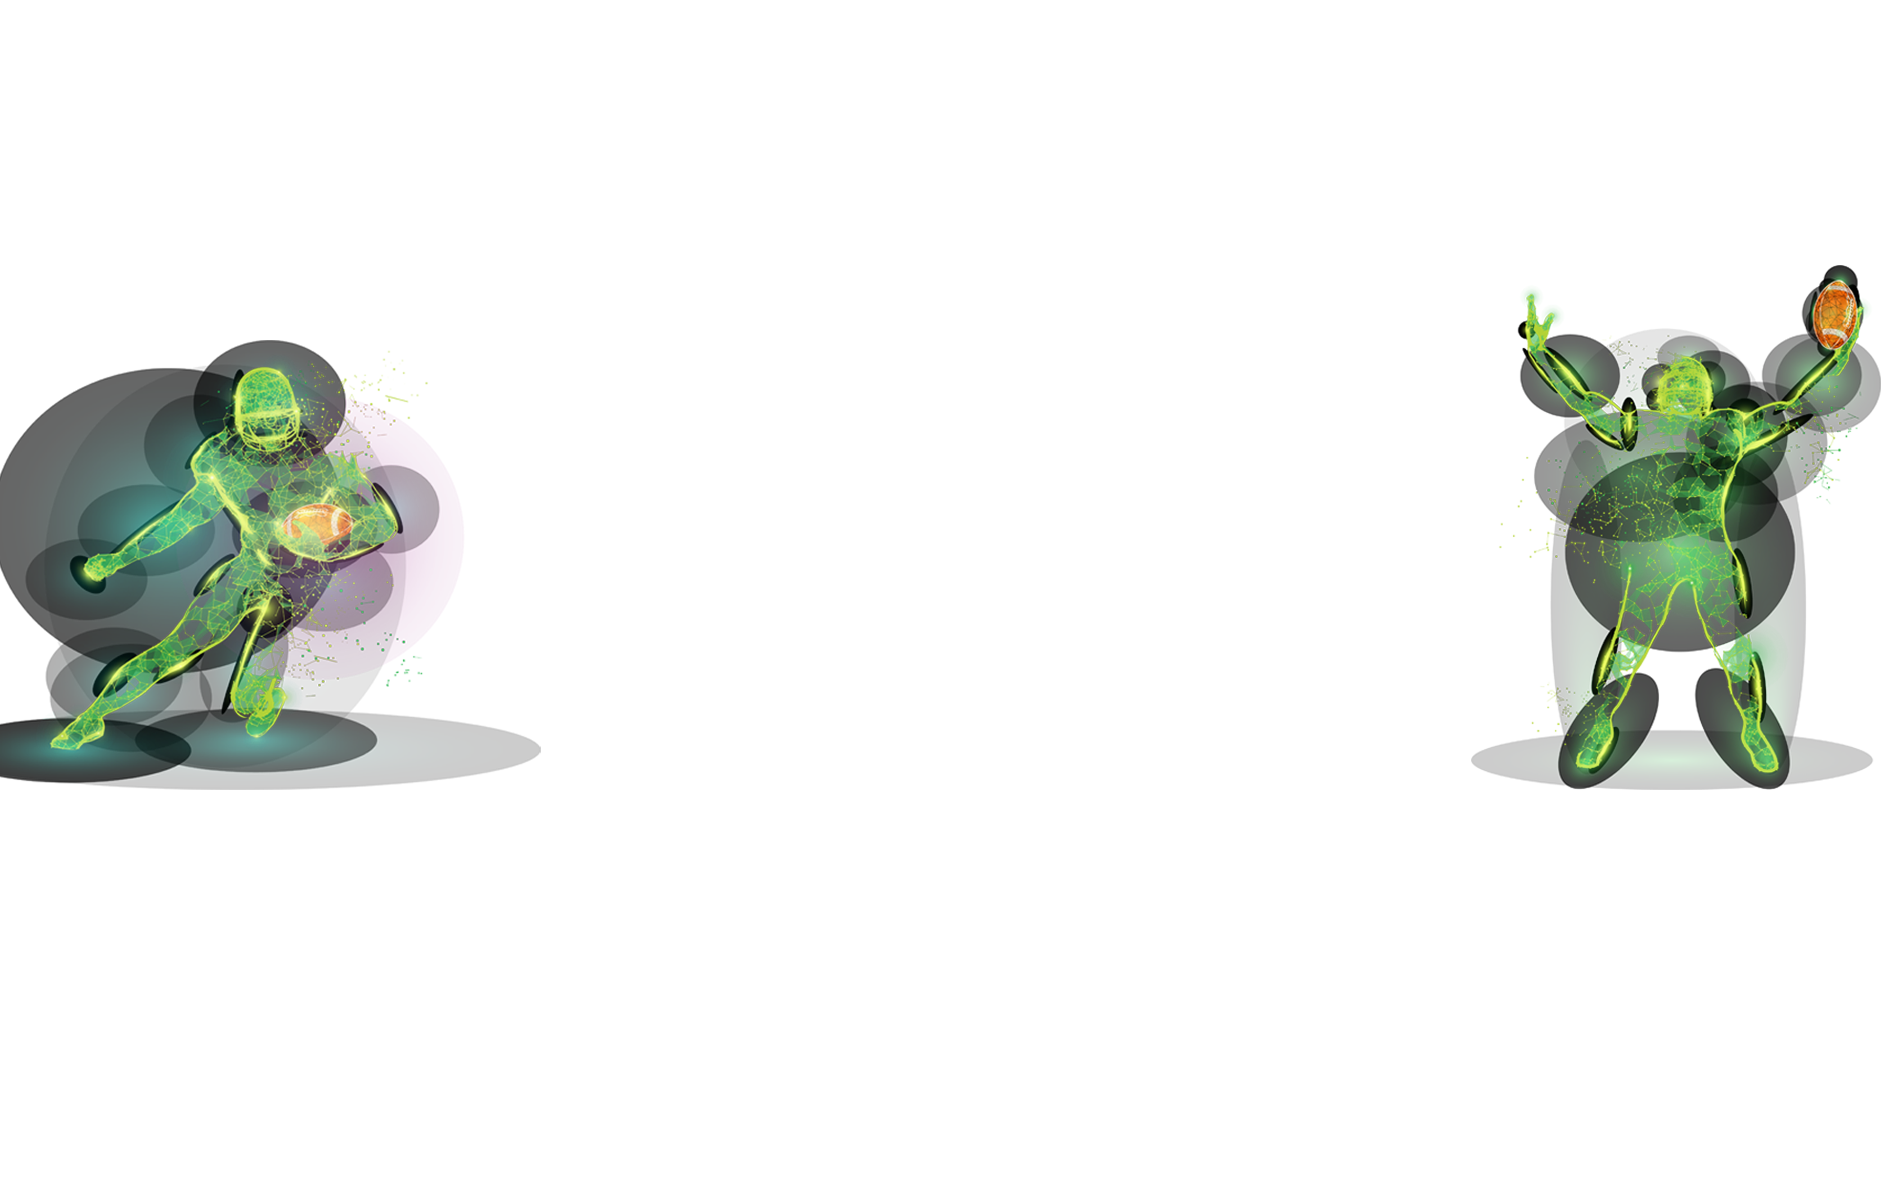
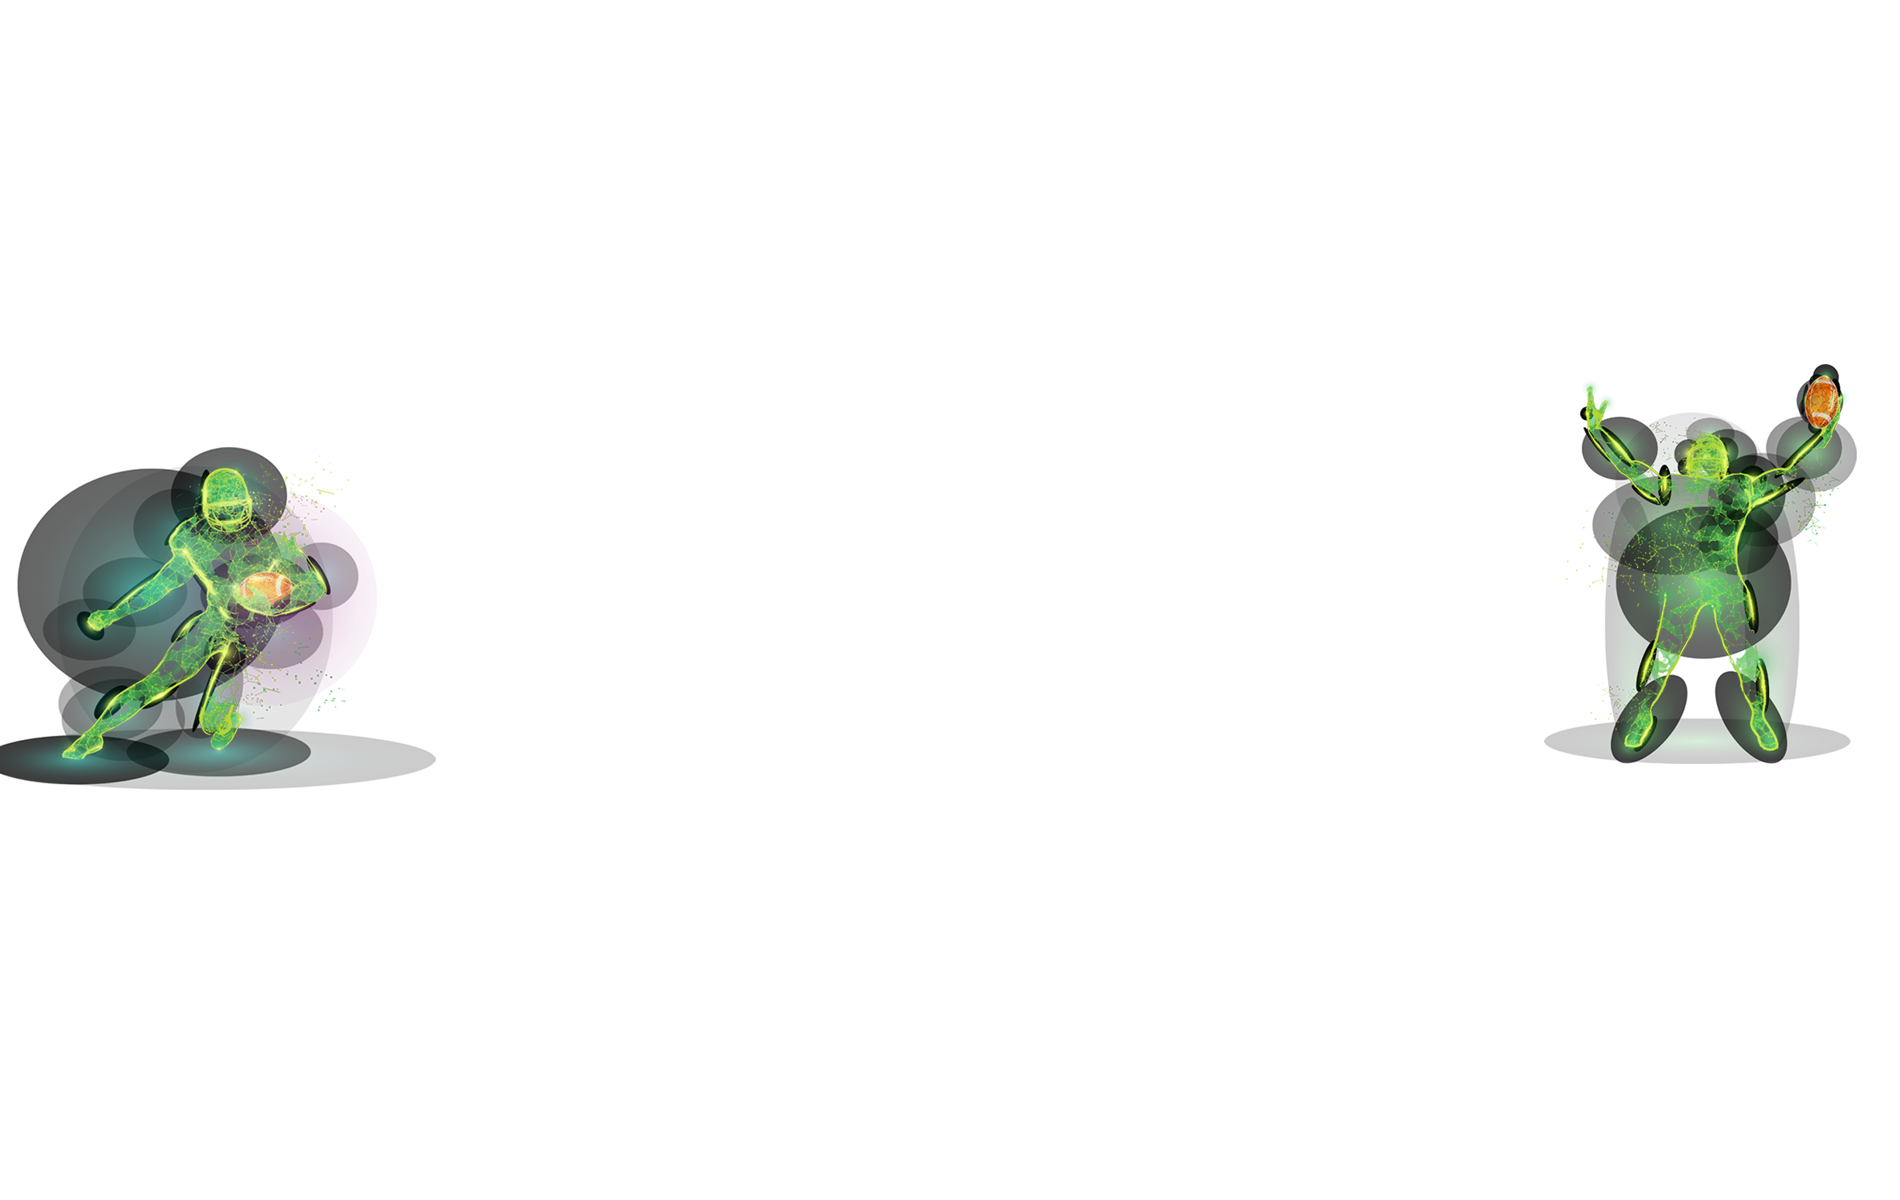
BG Image Updates

Changed region(s): [[0.0, 0.2775, 0.2795, 0.6783], [0.7763, 0.2158, 0.9937, 0.6783]]

diff --git a/public/styles/KDL-Light.css b/public/styles/KDL-Light.css
@@ -929,8 +929,7 @@ input[type="radio"] {
 body {
   color: var(--main, #080e25);
   text-rendering: optimizeLegibility;
-  /*--body-bg: #f8f8f8 url("https://knuckleheads.netlify.app/images/backgrounds/Hangover.png"), url("https://knuckleheads.netlify.app/images/backgrounds/BG-FB-Field-Light.jpg");*/
-  background-image: url("https://knuckleheads.netlify.app/images/backgrounds/Side-Particles-Light.png"), url("https://knuckleheads.netlify.app/images/backgrounds/White-Brick.jpg");
+  background-image: url("https://knuckleheads.netlify.app/images/backgrounds/Side-Particles-KDL.png"), url("https://knuckleheads.netlify.app/images/backgrounds/White-Brick.jpg");
   background-attachment: fixed;
   background-position: center top;
   background-repeat: no-repeat no-repeat;
